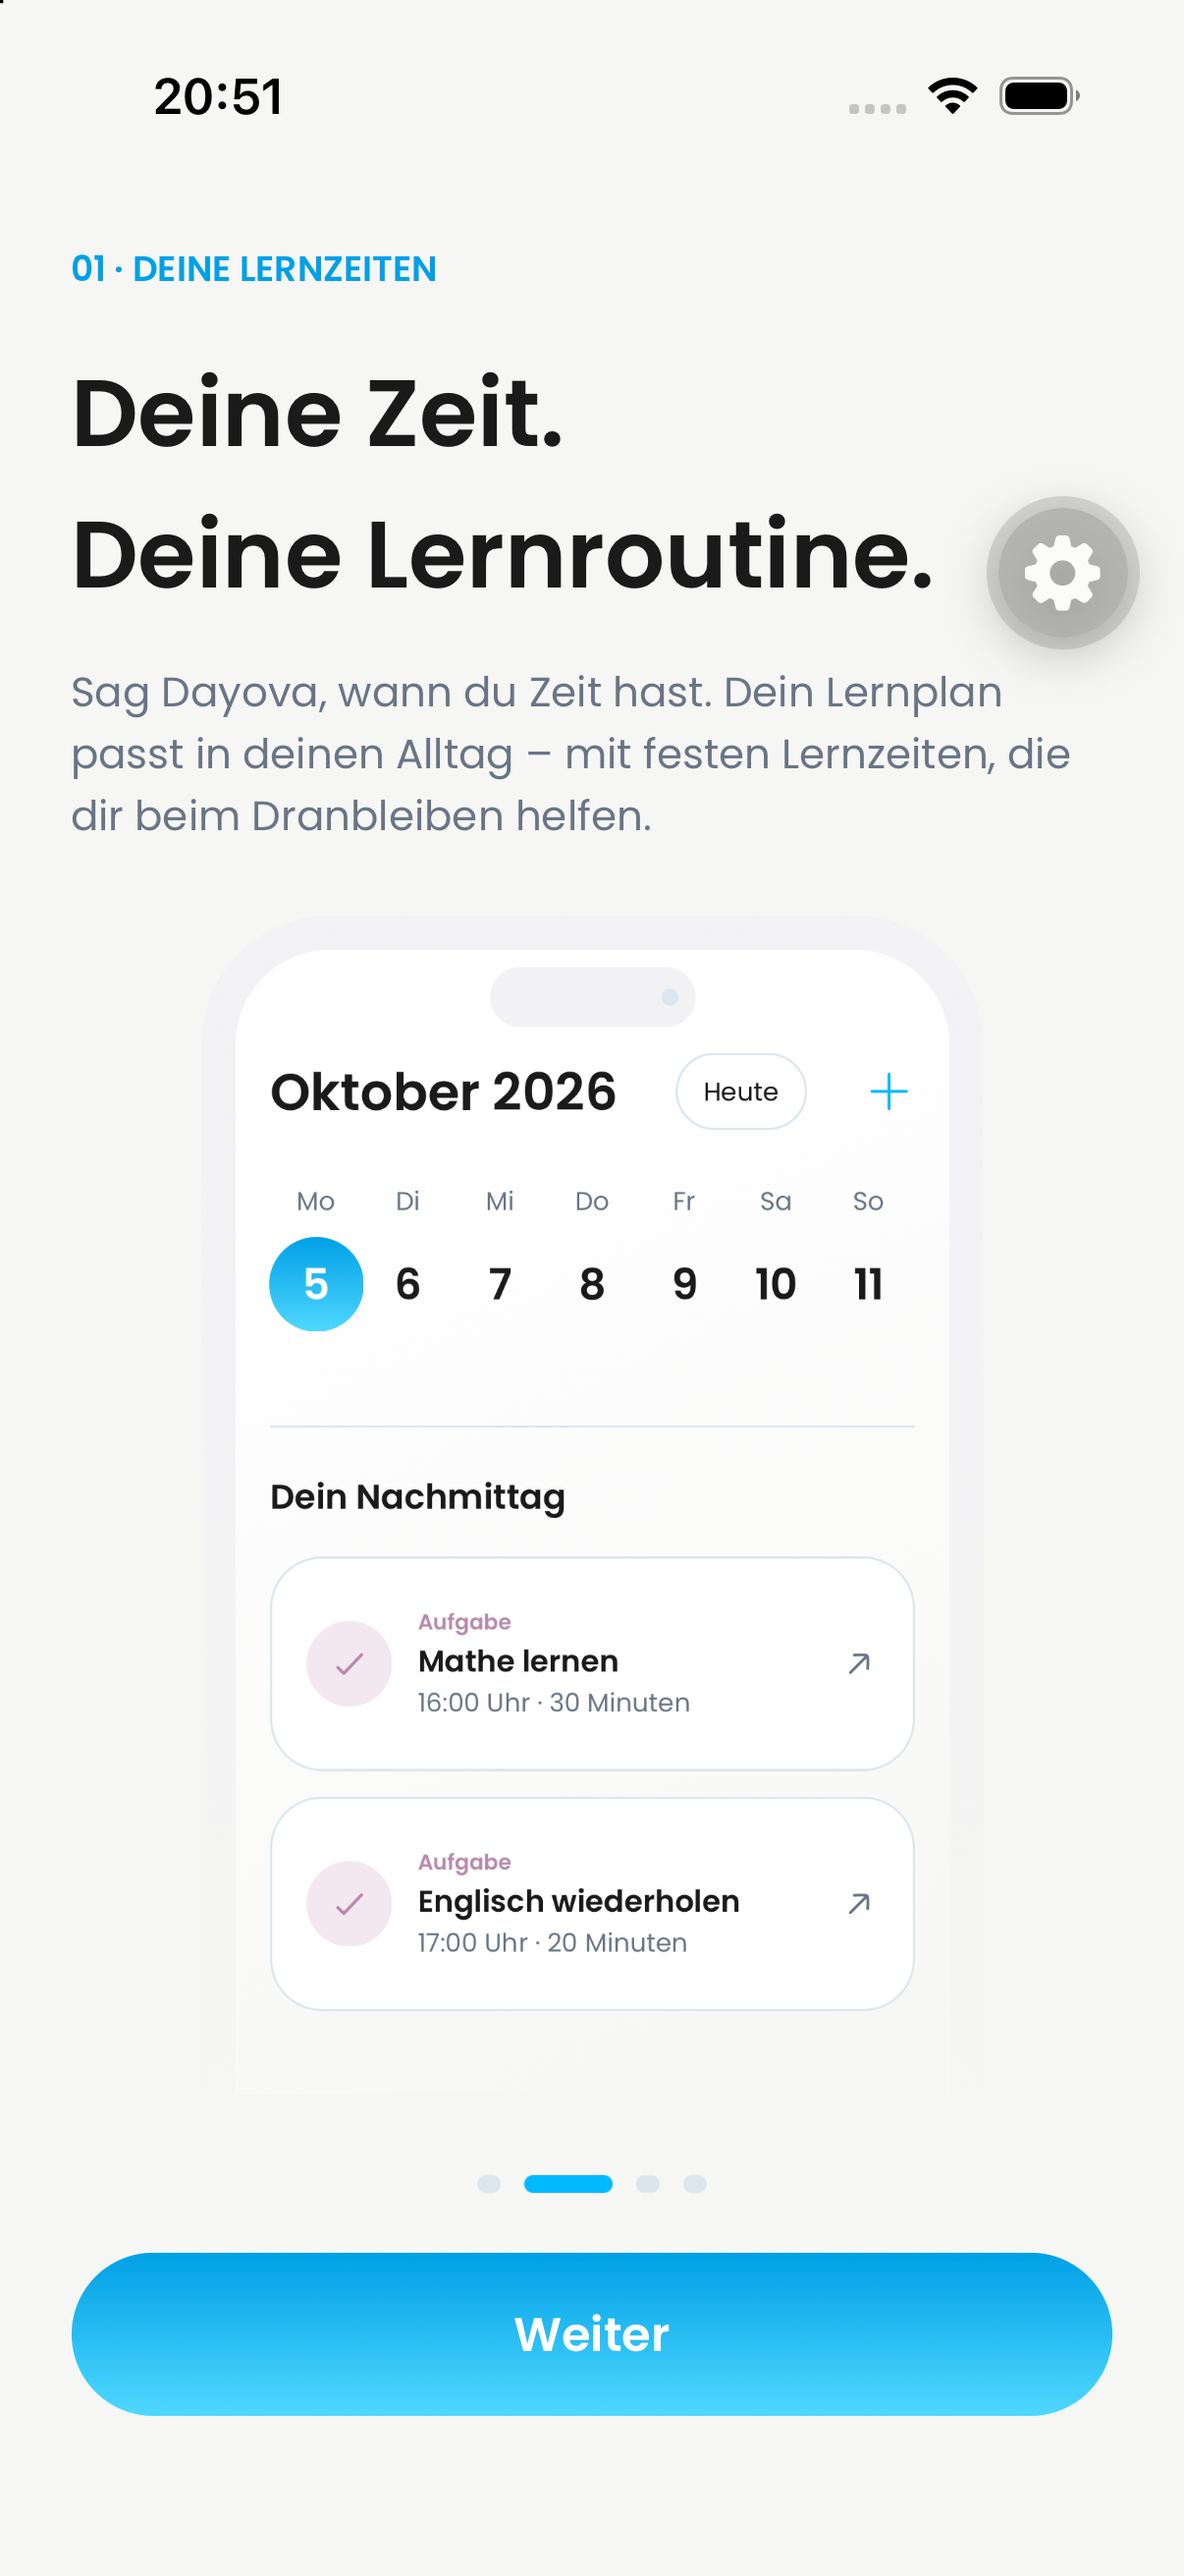
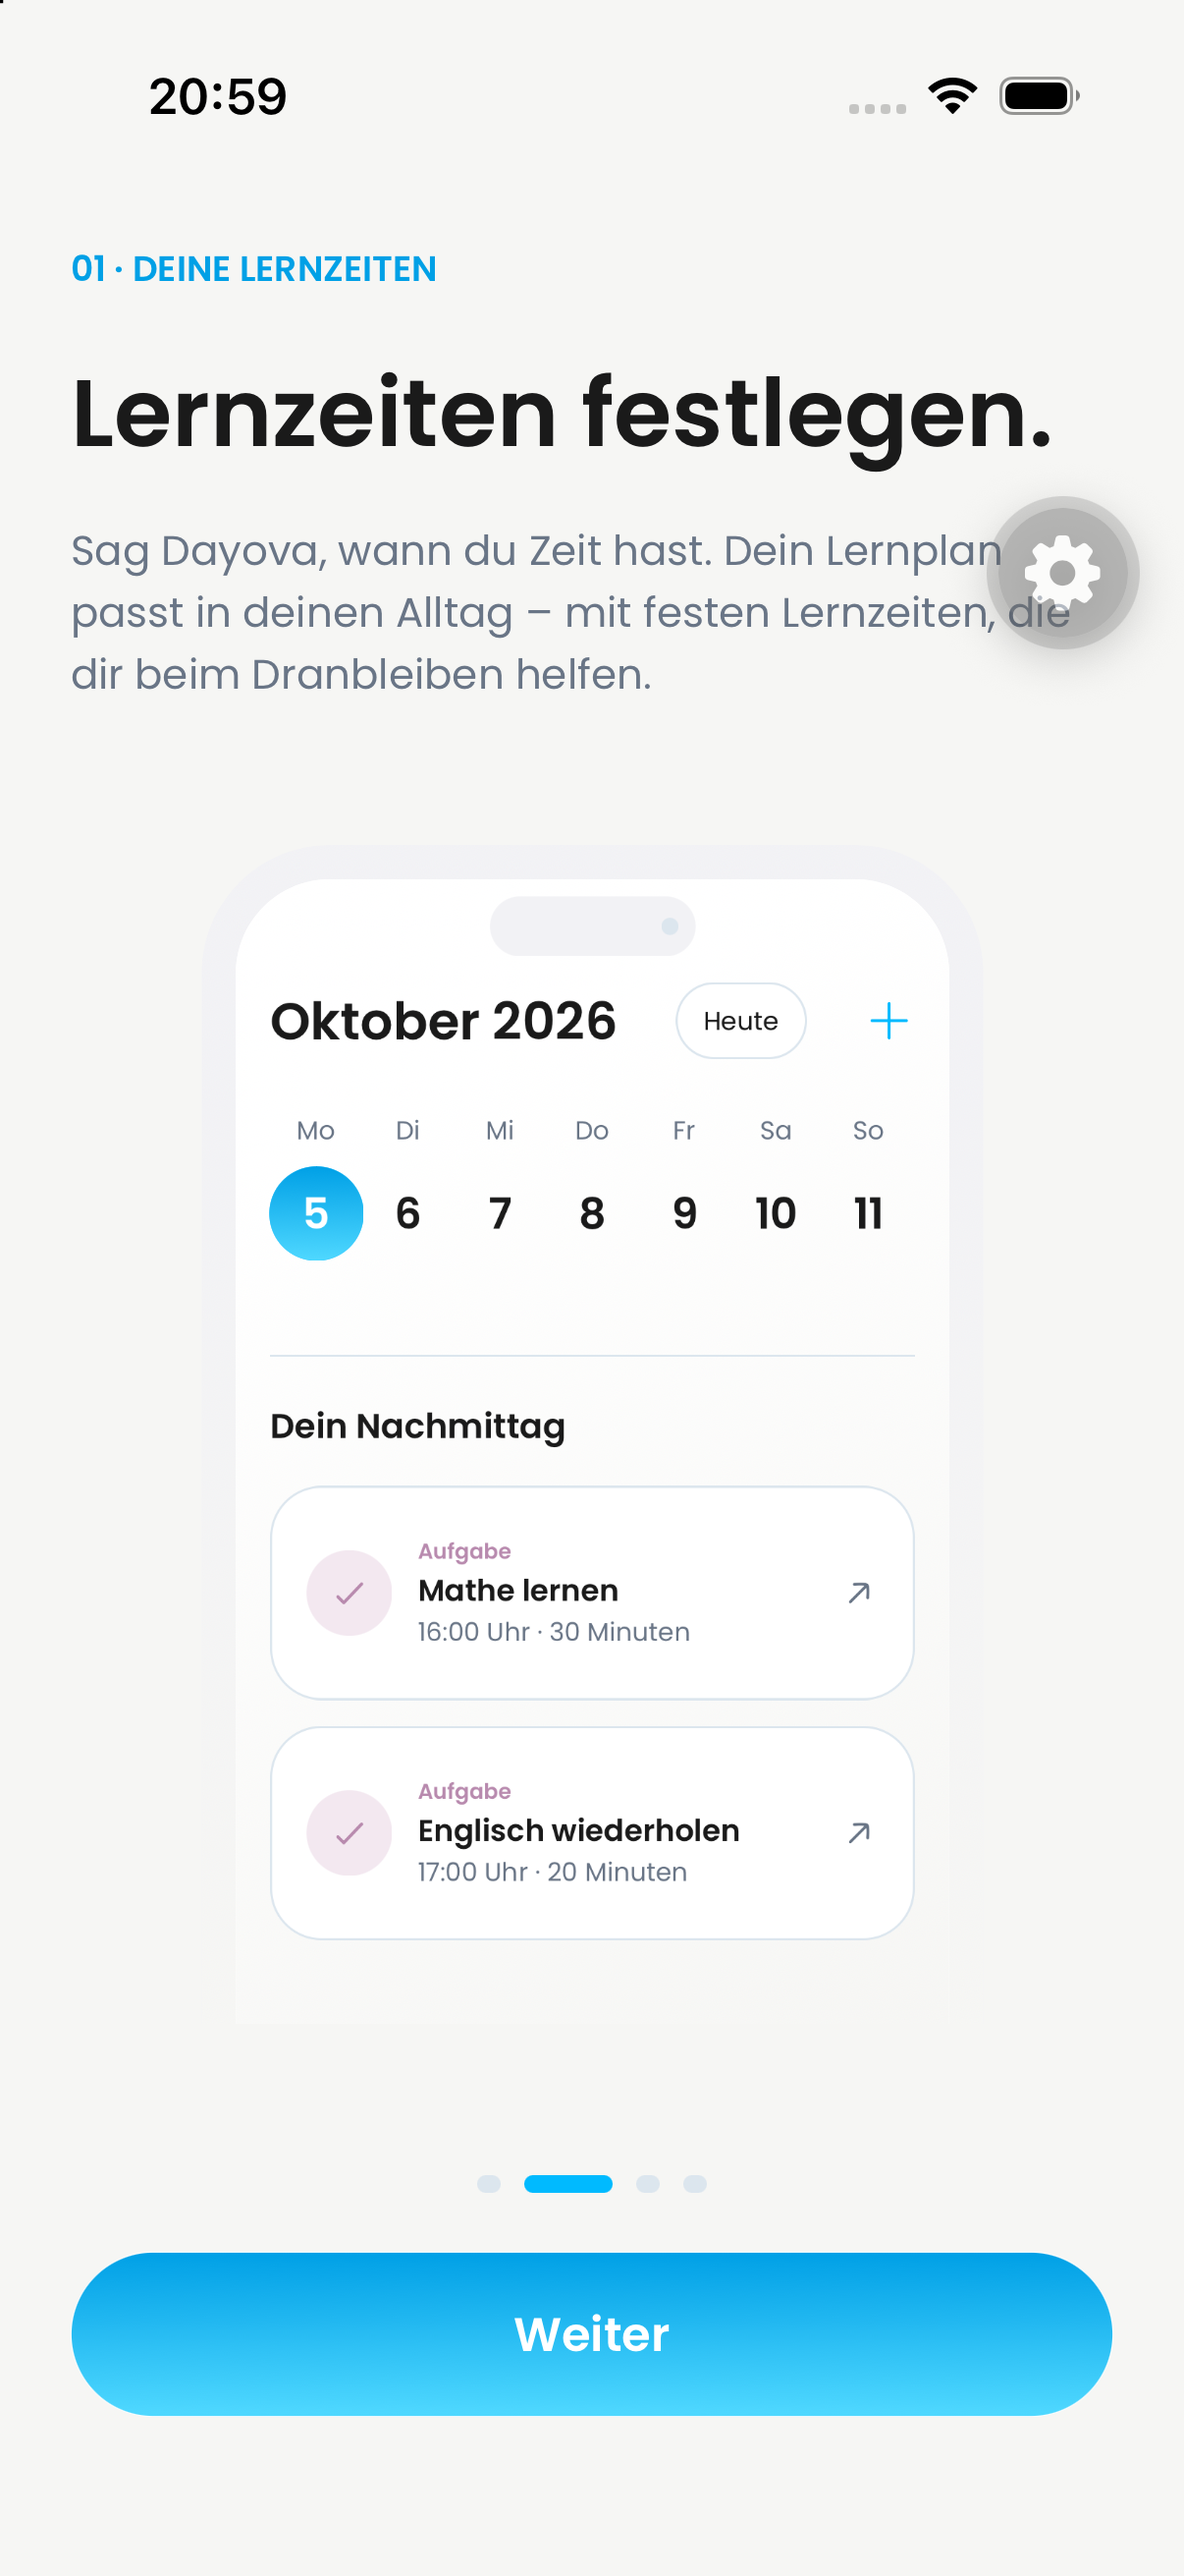
copy: clarify onboarding action headings

diff --git a/src/features/auth/dayova-auth-flow.tsx b/src/features/auth/dayova-auth-flow.tsx
@@ -180,7 +180,7 @@ const INTRO_STEPS = [
 		kind: "intro",
 		id: "intro-calendar",
 		eyebrow: "01 · DEINE LERNZEITEN",
-		title: "Deine Zeit.\nDeine Lernroutine.",
+		title: "Lernzeiten festlegen.",
 		description:
 			"Sag Dayova, wann du Zeit hast. Dein Lernplan passt in deinen Alltag – mit festen Lernzeiten, die dir beim Dranbleiben helfen.",
 		illustration: "calendar",
@@ -189,7 +189,7 @@ const INTRO_STEPS = [
 		kind: "intro",
 		id: "intro-upload",
 		eyebrow: "02 · DEIN SCHULMATERIAL",
-		title: "Dein Stoff.\nDeine Grundlage.",
+		title: "Schulmaterial hochladen.",
 		description:
 			"Fotografiere deine Mitschriften oder lade Arbeitsblätter hoch. So lernst du mit dem Stoff, der für deine Prüfung zählt.",
 		illustration: "upload",
@@ -198,7 +198,7 @@ const INTRO_STEPS = [
 		kind: "intro",
 		id: "intro-path",
 		eyebrow: "03 · DEIN LERNPLAN",
-		title: "Dein Lernplan.\nSchon eingeplant.",
+		title: "Lernplan erstellen lassen.",
 		description:
 			"Dayova macht aus deinem Stoff einen Lernplan – passend zu deinen Lernzeiten. Du weißt, was du wann lernst.",
 		illustration: "path",
